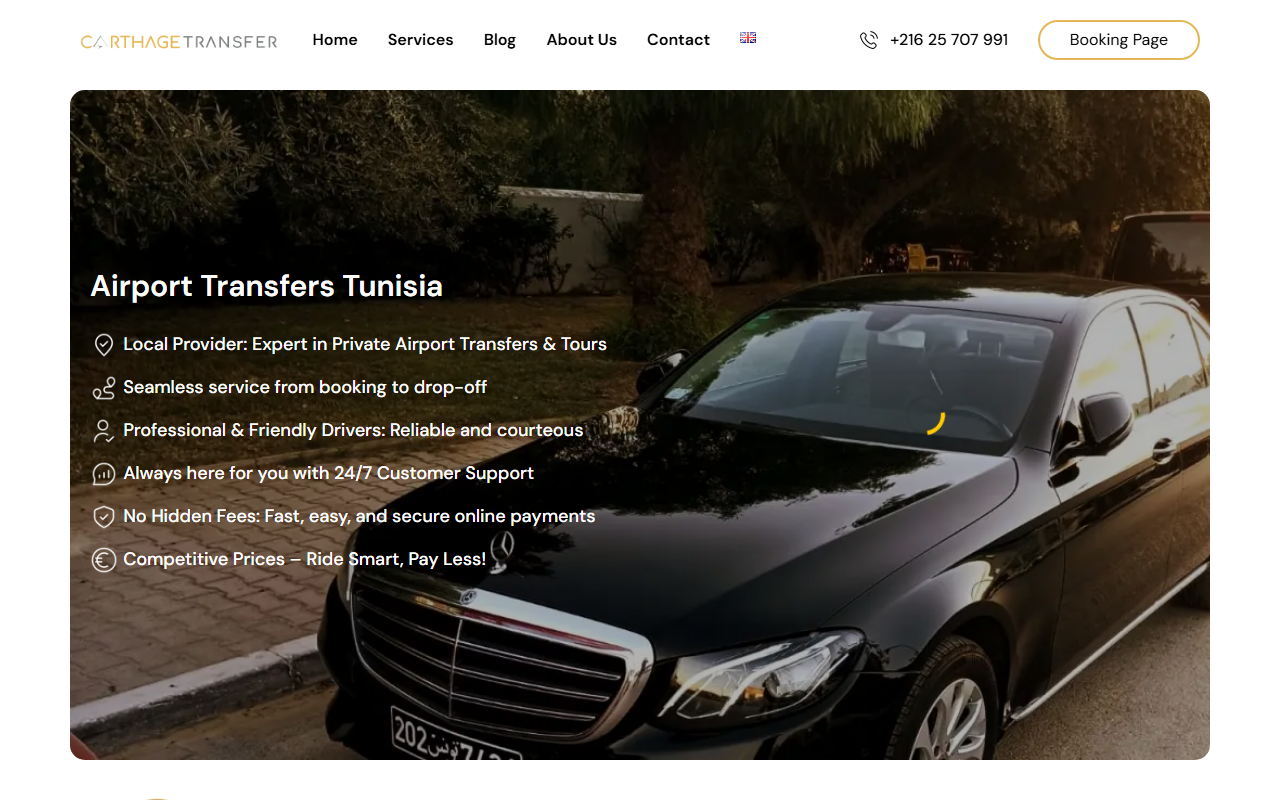
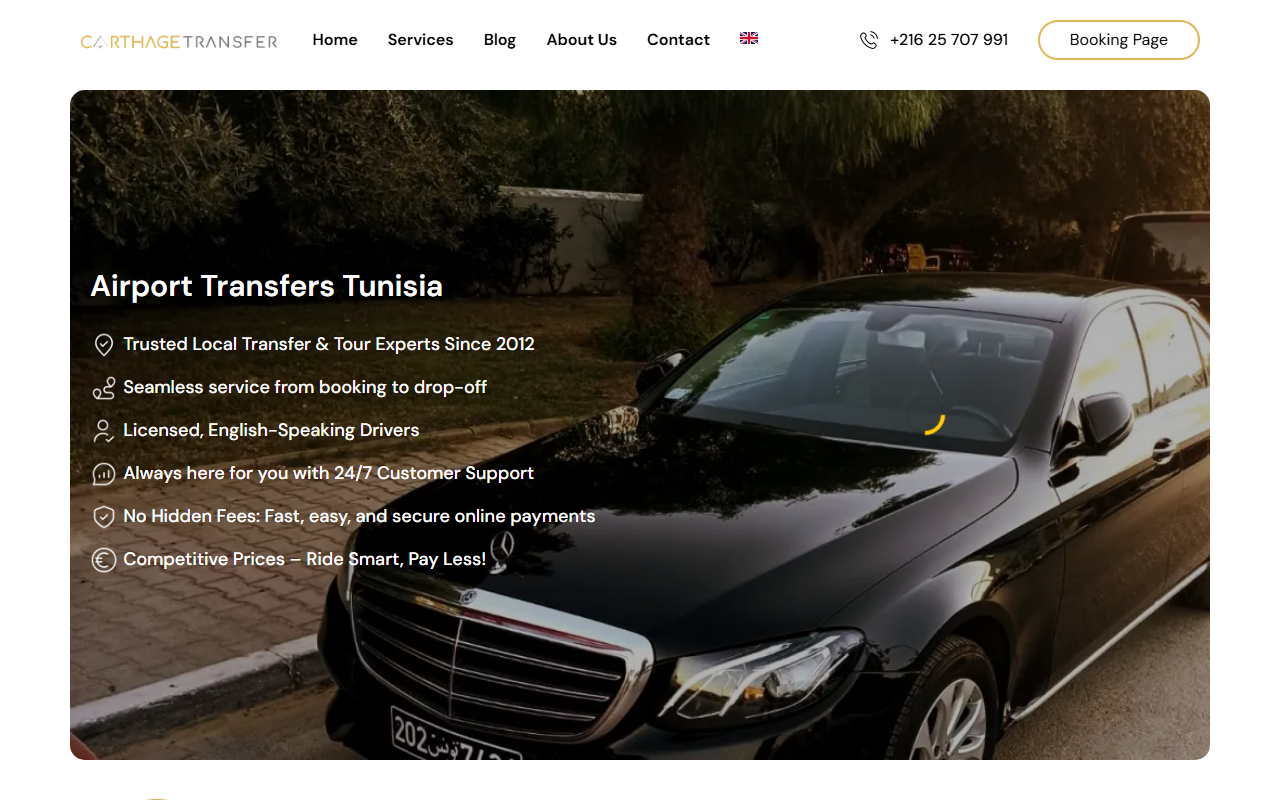
Refresh homepage screenshots for all project cards.

Changed region(s): [[0.0938, 0.5312, 0.4688, 0.5625], [0.0938, 0.4062, 0.4688, 0.4375], [0.5625, 0.0312, 0.5938, 0.0625]]

diff --git a/src/content/site.ts b/src/content/site.ts
@@ -383,7 +383,7 @@ export const projects: Project[] = [
       'Site maintenu et optimisé pour la performance et le SEO',
     ],
     liveUrl: 'https://carthage-transfer.com/',
-    image: '/images/projects/carthage-transfer.png?v=4',
+    image: '/images/projects/carthage-transfer.png?v=5',
     featured: true,
   },
   {
@@ -411,7 +411,7 @@ export const projects: Project[] = [
       'Site live : amirisgroup.com',
     ],
     liveUrl: 'https://amirisgroup.com/',
-    image: '/images/projects/amiris-group.png?v=4',
+    image: '/images/projects/amiris-group.png?v=5',
     featured: true,
   },
   {
@@ -439,7 +439,7 @@ export const projects: Project[] = [
       'Site live : amiris-badsanierung.de',
     ],
     liveUrl: 'https://amiris-badsanierung.de/',
-    image: '/images/projects/amiris-badsanierung.png?v=4',
+    image: '/images/projects/amiris-badsanierung.png?v=5',
     featured: true,
   },
   {
@@ -467,7 +467,7 @@ export const projects: Project[] = [
       'Site live : fensterio.com',
     ],
     liveUrl: 'https://fensterio.com/',
-    image: '/images/projects/fensterio.png?v=4',
+    image: '/images/projects/fensterio.png?v=5',
     featured: true,
   },
   {
@@ -495,7 +495,7 @@ export const projects: Project[] = [
       'Présence digitale claire pour Airport Transfers Djerba',
     ],
     liveUrl: 'https://djerba-airport-transfers.com/',
-    image: '/images/projects/djerba-airport-transfers.png?v=4',
+    image: '/images/projects/djerba-airport-transfers.png?v=5',
     featured: true,
   },
   {
@@ -523,7 +523,7 @@ export const projects: Project[] = [
       'Présence digitale renforcée pour Airport Transfers Tunisia',
     ],
     liveUrl: 'https://airporttransfertunisia.com/',
-    image: '/images/projects/airport-transfers-tunisia.png?v=4',
+    image: '/images/projects/airport-transfers-tunisia.png?v=5',
     featured: true,
   },
   {
@@ -551,7 +551,7 @@ export const projects: Project[] = [
       'Site live : carthage-dmc.com',
     ],
     liveUrl: 'https://carthage-dmc.com/',
-    image: '/images/projects/carthage-dmc.png?v=4',
+    image: '/images/projects/carthage-dmc.png?v=5',
     featured: true,
   },
   {
@@ -579,7 +579,7 @@ export const projects: Project[] = [
       'Site live : carthage-global-services.com',
     ],
     liveUrl: 'https://carthage-global-services.com/',
-    image: '/images/projects/carthage-global-services.png?v=4',
+    image: '/images/projects/carthage-global-services.png?v=5',
     featured: true,
   },
   {
@@ -607,7 +607,7 @@ export const projects: Project[] = [
       'Site live : curakissen.de',
     ],
     liveUrl: 'https://curakissen.de/',
-    image: '/images/projects/curakissen.png?v=4',
+    image: '/images/projects/curakissen.png?v=5',
     featured: true,
   },
   {
@@ -635,7 +635,7 @@ export const projects: Project[] = [
       'Site live : tunisiafeed.com',
     ],
     liveUrl: 'https://tunisiafeed.com/',
-    image: '/images/projects/tunisiafeed.png?v=4',
+    image: '/images/projects/tunisiafeed.png?v=5',
     featured: true,
   },
   {
@@ -663,7 +663,7 @@ export const projects: Project[] = [
       'Site live : amiris-leckortung.de',
     ],
     liveUrl: 'https://amiris-leckortung.de/',
-    image: '/images/projects/amiris-leckortung.png?v=4',
+    image: '/images/projects/amiris-leckortung.png?v=5',
     featured: true,
   },
   {
@@ -691,7 +691,7 @@ export const projects: Project[] = [
       'Site live : autoglas-meister.de',
     ],
     liveUrl: 'https://autoglas-meister.de/',
-    image: '/images/projects/autoglas-meister.png?v=4',
+    image: '/images/projects/autoglas-meister.png?v=5',
     featured: true,
   },
   {
@@ -719,7 +719,7 @@ export const projects: Project[] = [
       'Site live : sternesammler.de',
     ],
     liveUrl: 'https://sternesammler.de/',
-    image: '/images/projects/sternesammler.png?v=4',
+    image: '/images/projects/sternesammler.png?v=5',
     featured: true,
   },
   {
@@ -747,7 +747,7 @@ export const projects: Project[] = [
       'Site live : meubleseldar.com',
     ],
     liveUrl: 'https://meubleseldar.com/',
-    image: '/images/projects/meubles-el-dar.png?v=4',
+    image: '/images/projects/meubles-el-dar.png?v=5',
     featured: true,
   },
   {
@@ -775,7 +775,7 @@ export const projects: Project[] = [
       'Site live : tunisia-experiences.com',
     ],
     liveUrl: 'https://tunisia-experiences.com/',
-    image: '/images/projects/tunisia-experiences.png?v=4',
+    image: '/images/projects/tunisia-experiences.png?v=5',
     featured: true,
   },
   {
@@ -803,7 +803,7 @@ export const projects: Project[] = [
       'Site live : melcar-group.com',
     ],
     liveUrl: 'https://www.melcar-group.com/',
-    image: '/images/projects/melcar-group.png?v=4',
+    image: '/images/projects/melcar-group.png?v=5',
     featured: true,
   },
   {
@@ -831,7 +831,7 @@ export const projects: Project[] = [
       'Site live : omnia-focus.com',
     ],
     liveUrl: 'https://omnia-focus.com/',
-    image: '/images/projects/omnia-focus.png',
+    image: '/images/projects/omnia-focus.png?v=5',
     featured: true,
   },
 ];
